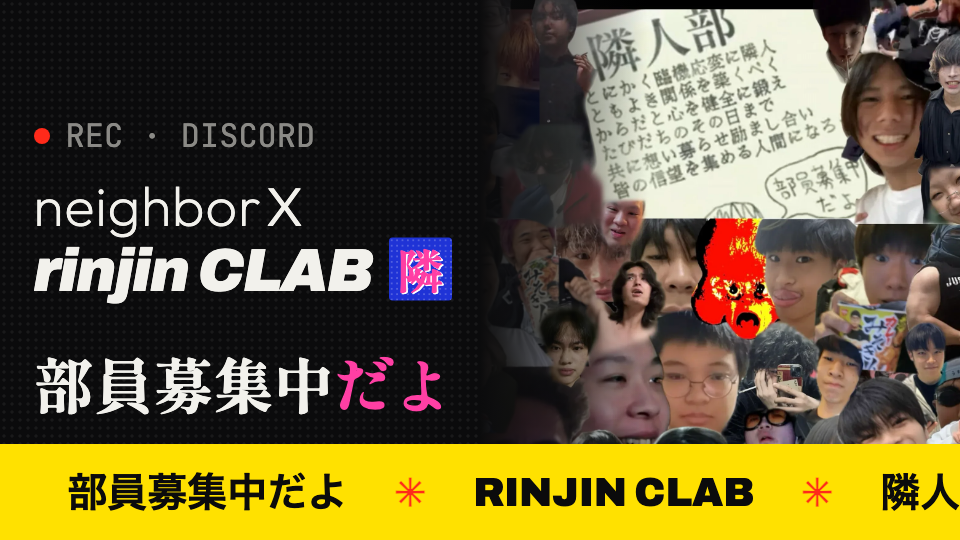
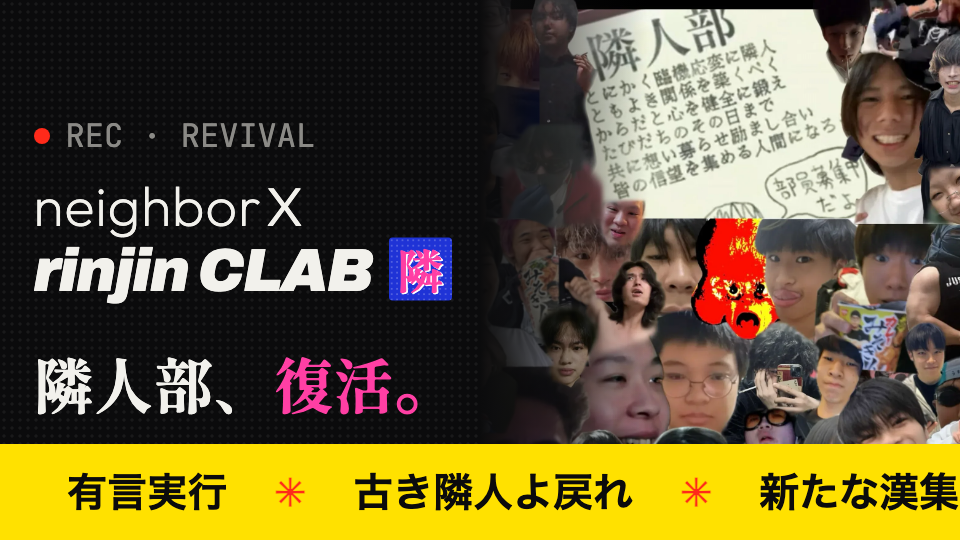
Add invite link, owner, revival copy and rule section

Changed region(s): [[0.0625, 0.8593, 1.0, 0.9481], [0.0312, 0.6519, 0.4688, 0.7704], [0.1875, 0.2074, 0.3438, 0.2667]]

diff --git a/index.html b/index.html
@@ -4,9 +4,9 @@
   <meta charset="utf-8">
   <meta name="viewport" content="width=device-width, initial-scale=1">
   <title>RinjinCLAB 隣人部</title>
-  <meta name="description" content="隣人部 / RinjinCLAB — とにかく臨機応変に隣人とよき関係を築く部。部員募集中だよ。">
+  <meta name="description" content="あの伝説のサーバー隣人部、復活。古き隣人よ戻れ、新たな漢集え。ルールはただ1つ、有言実行。">
   <meta property="og:title" content="RinjinCLAB 隣人部">
-  <meta property="og:description" content="部員募集中だよ。">
+  <meta property="og:description" content="伝説のサーバー、復活。ルールはただ1つ、有言実行。">
   <meta property="og:image" content="assets/og.png">
   <meta name="twitter:card" content="summary_large_image">
   <meta name="theme-color" content="#0b0b0c">
@@ -25,6 +25,7 @@
   </a>
   <nav class="nav-links">
     <a href="#manifesto">部訓</a>
+    <a href="#rule">ルール</a>
     <a href="#members">部員</a>
     <a href="#join">入部</a>
   </nav>
@@ -37,14 +38,14 @@
   <section class="hero">
     <div class="hero-bgword" aria-hidden="true">RINJIN<br>CLAB</div>
     <div class="hero-inner">
-      <p class="eyebrow mono"><span class="dot"></span> REC · 部員募集中</p>
+      <p class="eyebrow mono"><span class="dot"></span> REC · 伝説のサーバー、復活</p>
       <h1 class="hero-title">
         <span class="lockup">
           <span class="lk-thin">neighbor</span><span class="lk-x">X</span>
           <span class="lk-keep"><span class="lk-bold">rinjin CLAB</span><span class="lk-badge"><b>隣</b></span></span>
         </span>
       </h1>
-      <p class="hero-sub">とにかく臨機応変に、隣人とよき関係を。<br>隣人部の公式サイト & Discord サーバー。</p>
+      <p class="hero-sub">あの伝説のサーバー、<b>隣人部</b>が復活。<br>古き隣人よ戻れ。新たな漢集え。</p>
       <div class="hero-cta">
         <a class="btn" data-discord href="#join">Discord に参加する <span aria-hidden="true">→</span></a>
         <a class="btn btn-ghost" href="#manifesto">部訓を読む</a>
@@ -73,8 +74,8 @@
   <!-- MARQUEE -->
   <div class="marquee" aria-hidden="true">
     <div class="marquee-track">
-      <span>部員募集中だよ</span><i>✳</i><span>RINJIN CLAB</span><i>✳</i><span>隣人部</span><i>✳</i><span>NOW RECRUITING</span><i>✳</i>
-      <span>部員募集中だよ</span><i>✳</i><span>RINJIN CLAB</span><i>✳</i><span>隣人部</span><i>✳</i><span>NOW RECRUITING</span><i>✳</i>
+      <span>隣人部 復活</span><i>✳</i><span>古き隣人よ戻れ</span><i>✳</i><span>新たな漢集え</span><i>✳</i><span>有言実行</span><i>✳</i>
+      <span>隣人部 復活</span><i>✳</i><span>古き隣人よ戻れ</span><i>✳</i><span>新たな漢集え</span><i>✳</i><span>有言実行</span><i>✳</i>
     </div>
   </div>
 
@@ -100,10 +101,29 @@
     </div>
   </section>
 
+  <!-- RULE -->
+  <section class="section rule" id="rule">
+    <div class="section-head">
+      <p class="mono label">02 / RULE</p>
+      <h2>ルールはただ1つ</h2>
+    </div>
+    <p class="rule-word">有言実行</p>
+    <ul class="rule-tags">
+      <li>人〇食</li><li>ケツ穴線香花火</li><li>全〇ギター</li><li>美人局</li><li>詐○</li><li>珍走</li><li>公然わいせつ</li><li>職場凸</li>
+    </ul>
+    <div class="welcome">
+      <p class="mono label">WELCOME</p>
+      <ul>
+        <li>不登校</li><li>ニート</li><li>学生</li><li>社会人</li><li>ギャングスタ</li>
+      </ul>
+      <p class="welcome-tail">大歓迎</p>
+    </div>
+  </section>
+
   <!-- ABOUT / STATS -->
   <section class="section about">
     <div class="section-head">
-      <p class="mono label">02 / ABOUT</p>
+      <p class="mono label">03 / ABOUT</p>
       <h2>隣人部とは</h2>
     </div>
     <div class="about-grid">
@@ -112,8 +132,8 @@
         集まって、食べて、喋って、たまに鍛える。
       </p>
       <dl class="stats">
-        <div><dt class="mono">MEMBERS</dt><dd data-fill="members">40+</dd></div>
-        <div><dt class="mono">FOUNDED</dt><dd data-fill="founded">2026</dd></div>
+        <div><dt class="mono">OWNER</dt><dd>こてっちゃん</dd></div>
+        <div><dt class="mono">STATUS</dt><dd>復活</dd></div>
         <div><dt class="mono">BASE</dt><dd data-fill="base">Discord</dd></div>
       </dl>
     </div>
@@ -122,7 +142,7 @@
   <!-- MEMBERS -->
   <section class="section members" id="members">
     <div class="section-head">
-      <p class="mono label">03 / MEMBERS</p>
+      <p class="mono label">04 / MEMBERS</p>
       <h2>部員</h2>
     </div>
     <ul class="member-grid" id="member-grid"></ul>
@@ -132,9 +152,9 @@
   <section class="section join" id="join">
     <div class="join-card">
       <div class="join-halftone" aria-hidden="true"></div>
-      <p class="mono label">04 / JOIN</p>
+      <p class="mono label">05 / JOIN</p>
       <h2 class="join-title">部員募集中<span>だよ</span></h2>
-      <p class="join-sub">Discord サーバーに入れば、もう隣人。</p>
+      <p class="join-sub">古き隣人よ戻れ。新たな漢集え。</p>
       <a class="btn btn-xl" data-discord href="#">Discord に参加する <span aria-hidden="true">→</span></a>
       <ol class="join-steps mono">
         <li><b>01</b> 招待リンクから参加</li>

diff --git a/style.css b/style.css
@@ -188,6 +188,25 @@ a { color: inherit; }
   .manifesto-side { justify-self: center; }
 }
 
+/* rule */
+.rule-word {
+  margin: 0; font-family: "Shippori Mincho B1", serif; font-weight: 800;
+  font-size: clamp(80px, 19vw, 260px); line-height: 1; letter-spacing: .04em;
+  color: var(--paper); text-shadow: .03em .03em 0 var(--red);
+}
+.rule-tags { list-style: none; margin: clamp(28px, 4vw, 48px) 0 0; padding: 0; display: flex; flex-wrap: wrap; gap: 10px; }
+.rule-tags li {
+  padding: 8px 16px; border: 1px solid var(--line); border-radius: 999px;
+  font-weight: 700; font-size: clamp(14px, 1.5vw, 17px);
+  transition: background .2s, color .2s, transform .2s;
+}
+.rule-tags li:hover { background: var(--red); color: var(--ink); transform: rotate(-3deg); }
+.welcome { margin-top: clamp(48px, 7vw, 90px); display: flex; flex-wrap: wrap; align-items: baseline; gap: 12px 24px; border-top: 1px solid var(--line); padding-top: 18px; }
+.welcome .label { margin: 0; width: 100%; }
+.welcome ul { list-style: none; margin: 0; padding: 0; display: flex; flex-wrap: wrap; gap: 4px 22px; font-family: "Archivo", "Noto Sans JP", sans-serif; font-weight: 900; font-size: clamp(26px, 4.4vw, 56px); line-height: 1.2; }
+.welcome li:nth-child(odd) { color: var(--yellow); }
+.welcome-tail { margin: 0; font-family: "Shippori Mincho B1", serif; font-weight: 800; font-size: clamp(26px, 4.4vw, 56px); color: var(--pink); }
+
 /* about */
 .about-grid { display: grid; grid-template-columns: 1.3fr 1fr; gap: 48px; align-items: end; }
 .about-lead { margin: 0; font-size: clamp(20px, 2.4vw, 30px); line-height: 1.7; font-weight: 700; }
@@ -195,7 +214,7 @@ a { color: inherit; }
 .stats div { padding: 18px; border-left: 1px solid var(--line); }
 .stats div:first-child { border-left: 0; }
 .stats dt { font-size: 11px; color: var(--mute); }
-.stats dd { margin: 6px 0 0; font-family: "Archivo", sans-serif; font-weight: 900; font-size: clamp(22px, 3vw, 34px); line-height: 1; }
+.stats dd { margin: 6px 0 0; font-family: "Archivo", sans-serif; font-weight: 900; font-size: clamp(17px, 2vw, 26px); line-height: 1.1; white-space: nowrap; }
 @media (max-width: 800px) { .about-grid { grid-template-columns: 1fr; } }
 
 /* members */

diff --git a/site.js b/site.js
@@ -3,21 +3,21 @@
 // ============================================================
 const CONFIG = {
   // Discord 招待リンク（無期限のものを推奨）
-  discordInvite: "",
+  discordInvite: "https://discord.gg/k6h8BWQcwc",
 
   // 部員カード。face は集合写真の中の顔の位置（0〜1、左上が 0,0）
   members: [
-    { name: "部員 01", role: "部長",   face: [0.07, 0.035] },
-    { name: "部員 02", role: "",       face: [0.79, 0.17] },
-    { name: "部員 03", role: "",       face: [0.05, 0.50] },
-    { name: "部員 04", role: "",       face: [0.15, 0.45] },
-    { name: "部員 05", role: "",       face: [0.34, 0.55] },
-    { name: "部員 06", role: "",       face: [0.63, 0.50] },
-    { name: "部員 07", role: "",       face: [0.46, 0.71] },
-    { name: "部員 08", role: "",       face: [0.44, 0.89] },
-    { name: "部員 09", role: "",       face: [0.80, 0.81] },
-    { name: "部員 10", role: "",       face: [0.92, 0.11] },
-    { name: "部員 11", role: "",       face: [0.59, 0.84] },
+    { name: "こてっちゃん", role: "鯖主",   face: [0.07, 0.035] },
+    { name: "隣人 02", role: "",       face: [0.79, 0.17] },
+    { name: "隣人 03", role: "",       face: [0.05, 0.50] },
+    { name: "隣人 04", role: "",       face: [0.15, 0.45] },
+    { name: "隣人 05", role: "",       face: [0.34, 0.55] },
+    { name: "隣人 06", role: "",       face: [0.63, 0.50] },
+    { name: "隣人 07", role: "",       face: [0.46, 0.71] },
+    { name: "隣人 08", role: "",       face: [0.44, 0.89] },
+    { name: "隣人 09", role: "",       face: [0.80, 0.81] },
+    { name: "隣人 10", role: "",       face: [0.92, 0.11] },
+    { name: "隣人 11", role: "",       face: [0.59, 0.84] },
     { name: "守り神", role: "マスコット", face: [0.53, 0.48] },
   ],
 };

diff --git a/discord/render.html b/discord/render.html
@@ -46,9 +46,9 @@
 <script>
 const t = new URLSearchParams(location.search).get("t") || "icon";
 const lockup = `<span class="lockup"><span><span class="lk-thin">neighbor</span><span class="lk-x">X</span></span><span class="lk-keep"><span class="lk-bold">rinjin CLAB</span><span class="lk-badge"><b>隣</b></span></span></span>`;
-const bar = `<div class="bar"><span>部員募集中だよ</span><b>✳</b><span>RINJIN CLAB</span><b>✳</b><span>隣人部</span><b>✳</b><span>NOW RECRUITING</span><b>✳</b><span>部員募集中だよ</span></div>`;
+const bar = `<div class="bar"><span>有言実行</span><b>✳</b><span>古き隣人よ戻れ</span><b>✳</b><span>新たな漢集え</span><b>✳</b><span>RINJIN CLAB</span></div>`;
 const wide = (cls) => `<div class="art wide ${cls}"><div class="dots" style="opacity:.35"></div>
-  <div class="copy"><div class="eyebrow mono"><i></i>REC · DISCORD</div>${lockup}<div class="sub">部員募集中<span>だよ</span></div></div>
+  <div class="copy"><div class="eyebrow mono"><i></i>REC · REVIVAL</div>${lockup}<div class="sub">隣人部、<span>復活。</span></div></div>
   <div class="photo"></div>${bar}</div>`;
 const T = {
   icon:   `<div class="art icon"><div class="pink"></div><b>隣</b></div>`,
